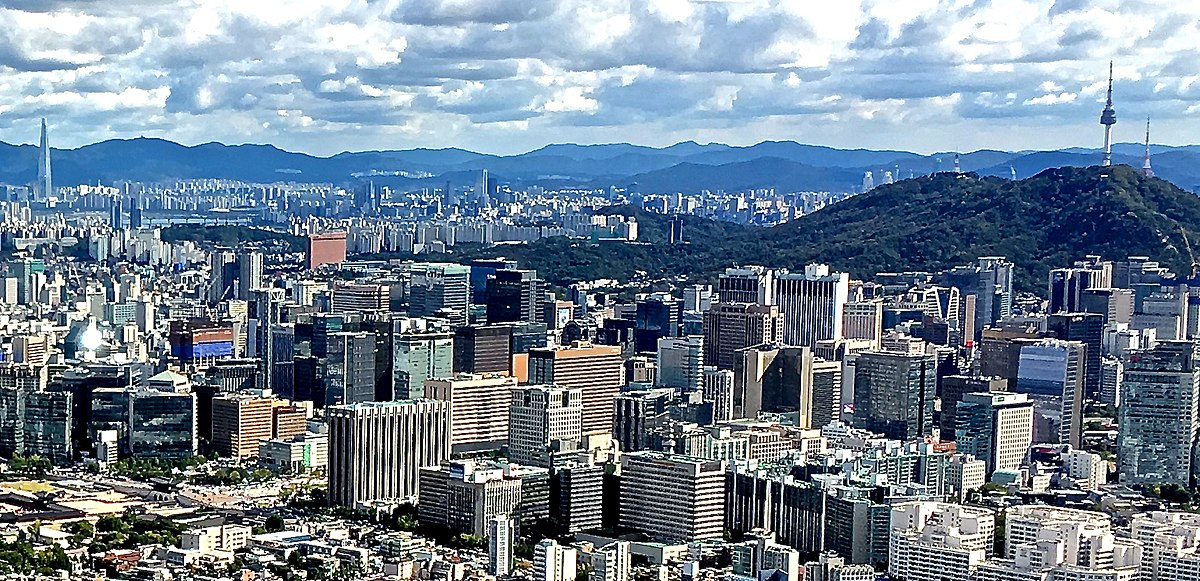
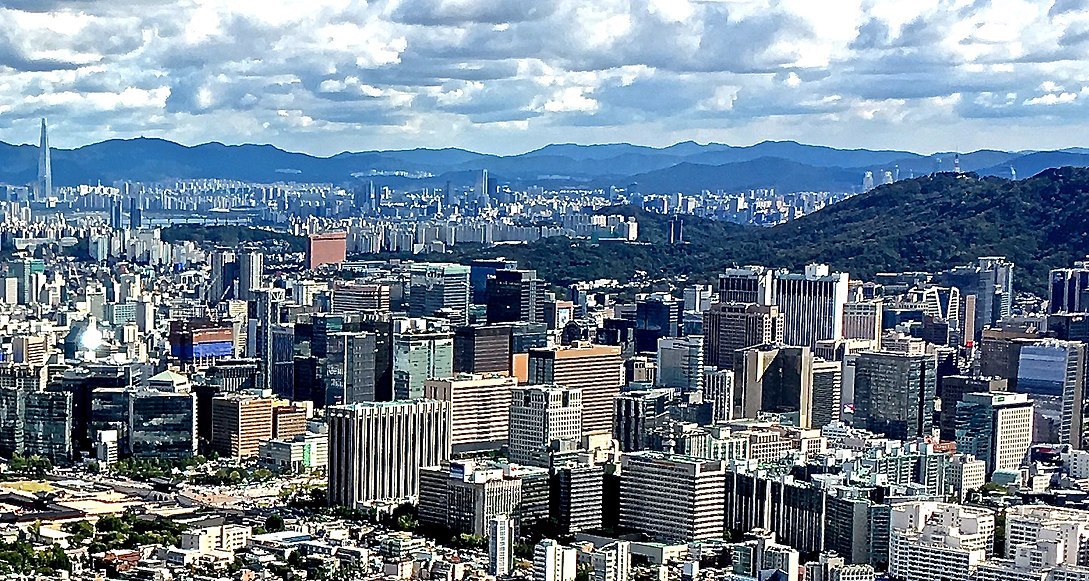
Tried to fix Seoul & NYC scale

diff --git a/nyc/nyc.css b/nyc/nyc.css
@@ -3,13 +3,13 @@ body {
   background-image: url('empire/assets/nyc/NYC.jpg');
   background-repeat: no-repeat;
   background-attachment: absolute;
-  background-size: 7/10;
+  background-size: auto;
   background-position: center;
 
 }
 
 #Empire {
-  background-color:transparent;
+  background-color: transparent;
   border: none;
   border-radius: 400px;
   width: 220px;
@@ -17,8 +17,8 @@ body {
   padding: 12px 16px;
   cursor: pointer; 
   position: absolute;
-  left: 795px;
-  top: 110px;
+  left: 895px;
+  top: 108px;
 }
 
 #Chinatown {
@@ -30,8 +30,8 @@ body {
   padding: 12px 16px;
   cursor: pointer; 
   position: absolute;
-  left: 557px;
-  top: 375px;
+  left: 650px;
+  top: 360px;
 }
 
 .BackButton {

diff --git a/seoul/seoul.css b/seoul/seoul.css
@@ -3,7 +3,7 @@ body {
   background-image: url('hongdae/assets/seoul/SEOUL.jpg');
   background-repeat: no-repeat;
   background-attachment: absolute;
-  background-size: 5/10;
+  background-size: auto;
   background-position: center;
 
 }
@@ -12,13 +12,13 @@ body {
   background-color: transparent;
   border: none;
   border-radius: 100px;
-  width: 119px;
-  height: 165px;
+  width: 139px;
+  height: 195px;
   padding: 12px 16px;
   cursor: pointer; 
   position: absolute;
-  left: 1093px;
-  top: 150px;
+  left: 1040px;
+  top: 135px;
 }
 
 #Hongdae {
@@ -30,7 +30,7 @@ body {
   padding: 12px 16px;
   cursor: pointer; 
   position: absolute;
-  left: 210px;
+  left: 310px;
   top: 375px;
 }
 

diff --git a/seoul/seoul.js b/seoul/seoul.js
@@ -7,15 +7,15 @@ function preload() {
 }
 
 function setup() {
-  createCanvas(1280, 770)
+  createCanvas(1310, 770)
 }
 
 function draw() {
-  let scale = 1.2 / 10
+  let scale = 1.5 / 10
   let scale2 = 2 / 10
   imageMode(CENTER);
-  image(img, 1150, 220, img.width * scale, img.height * scale);
-  image(img2, 350, 480, img.width * scale2, img.height * scale2);
+  image(img, 1107, 220, img.width * scale, img.height * scale);
+  image(img2, 450, 480, img.width * scale2, img.height * scale2);
   position = ('SCALE');
 
 }

diff --git a/nyc/nyc.js b/nyc/nyc.js
@@ -14,8 +14,8 @@ function draw() {
   let scale = 3.5 / 10
   let scale2 = 1.5 / 10
   imageMode(CENTER);
-  image(img, 905, 380, img.width * scale, img.height * scale); 
-  image(img2, 650, 420, img.width * scale2, img.height * scale2);
+  image(img, 1005, 380, img.width * scale, img.height * scale); 
+  image(img2, 750, 420, img.width * scale2, img.height * scale2);
   position = ('SCALE');
 
 }

diff --git a/sketch.js b/sketch.js
@@ -18,7 +18,7 @@ function setup() {
 
   // translate (-100,0)
   
-  image(img, 0, 0, width * scale , height * scale);
+  image(img, 0, 0, width * scale + 170, height * scale);
   imageMode(CENTER)
 
   
